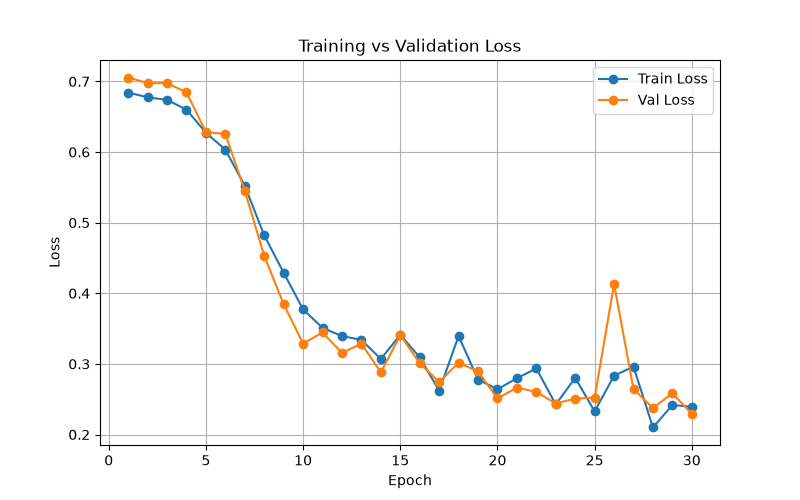
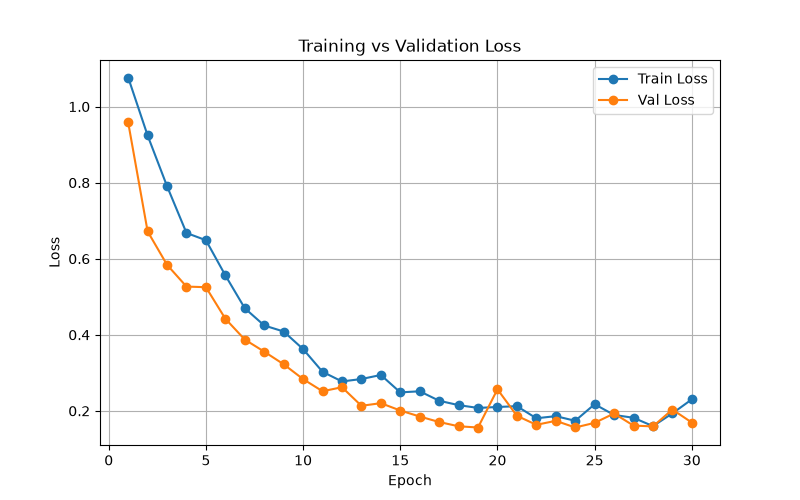
New model with shadow clone jutsu and loss curve

diff --git a/opencv_with_customhand.py b/opencv_with_customhand.py
@@ -125,7 +125,7 @@ while True:
         with torch.no_grad(): #load the model and make predictions
             output = model(input_tensor) #RUNS INFERENCE HERE!!!
             probs = torch.softmax(output, dim=1) #apply softmax to get probabilities
-            print(f"L_sign: {probs[0][0]:.3f}, Middle_finger: {probs[0][1]:.3f}")
+            print(f"L_sign: {probs[0][0]:.3f}, Middle_finger: {probs[0][1]:.3f}, Shadow_clone: {probs[0][2]:.3f}")
             confidence, predicted_idx = torch.max(probs, dim=1) #get the highest probability and its index
             predicted_label = target_to_class[predicted_idx.item()]
             confidence_text = f"{confidence.item()*100:.1f}%"